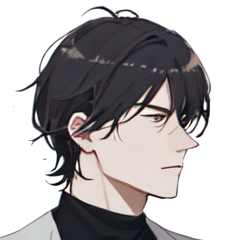
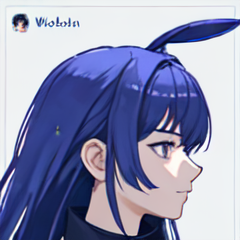
updated giles

diff --git a/local/website/templates/sign_up.html b/local/website/templates/sign_up.html
@@ -36,7 +36,7 @@ content%}
   <div hidden id="loader" class="container text-center"></div>
 </div>
 
-<div class="container">
+<div id="firstName-div" class="container">
   <h3 id="sign-up-header" class="text-center">Sign Up</h3>
   <div class="text-center"></div>
   <div class="form-group p-2">
@@ -53,8 +53,14 @@ content%}
 
 <br />
 
-<div class="text-center">
-  <button class="btn btn-primary" onclick="sendData()">Next</button>
+<div id="profile-pic-button" class="text-center">
+  <button class="btn btn-primary" onclick="sendData()">Generate Image</button>
+</div>
+
+<div hidden id="submit-button" class="text-center">
+  <button type="submit" class="btn btn-primary" onclick="sendData()">
+    Next
+  </button>
 </div>
 
 {% endblock %}

diff --git a/render/website/templates/sign_up.html b/render/website/templates/sign_up.html
@@ -36,7 +36,7 @@ content%}
   <div hidden id="loader" class="container text-center"></div>
 </div>
 
-<div class="container">
+<div id="firstName-div" class="container">
   <h3 id="sign-up-header" class="text-center">Sign Up</h3>
   <div class="text-center"></div>
   <div class="form-group p-2">
@@ -53,8 +53,14 @@ content%}
 
 <br />
 
-<div class="text-center">
-  <button class="btn btn-primary" onclick="sendData()">Next</button>
+<div id="profile-pic-button" class="text-center">
+  <button class="btn btn-primary" onclick="sendData()">Generate Image</button>
+</div>
+
+<div hidden id="submit-button" class="text-center">
+  <button type="submit" class="btn btn-primary" onclick="sendData()">
+    Next
+  </button>
 </div>
 
 {% endblock %}

diff --git a/local/website/static/scripts/sign-up.js b/local/website/static/scripts/sign-up.js
@@ -6,6 +6,8 @@ function sendData() {
   document.getElementById("code-gif").hidden = true;
   document.getElementById("loader").hidden = false;
   document.getElementById("sign-up-header").hidden = true;
+  document.getElementById("firstName-div").hidden = true;
+  document.getElementById("profile-pic-button").hidden = true;
 
   $.ajax({
     url: "/process",
@@ -17,6 +19,7 @@ function sendData() {
       // show elements
       document.getElementById("profile-pic").hidden = false;
       document.getElementById("profile-pic-header").hidden = false;
+      document.getElementById("submit-button").hidden = false;
 
       // hide loading bar
       document.getElementById("loader").hidden = true;

diff --git a/render/website/static/scripts/sign-up.js b/render/website/static/scripts/sign-up.js
@@ -6,6 +6,8 @@ function sendData() {
   document.getElementById("code-gif").hidden = true;
   document.getElementById("loader").hidden = false;
   document.getElementById("sign-up-header").hidden = true;
+  document.getElementById("firstName-div").hidden = true;
+  document.getElementById("profile-pic-button").hidden = true;
 
   $.ajax({
     url: "/process",
@@ -17,6 +19,7 @@ function sendData() {
       // show elements
       document.getElementById("profile-pic").hidden = false;
       document.getElementById("profile-pic-header").hidden = false;
+      document.getElementById("submit-button").hidden = false;
 
       // hide loading bar
       document.getElementById("loader").hidden = true;

diff --git a/local/website/auth/start.py b/local/website/auth/start.py
@@ -88,7 +88,7 @@ def process():
     # generate image from model
     prompt = f"generate a profile picture for {firstName}, without any signs of visible text"
 
-    steps = 60
+    steps = 50
     h = 240
     w = 240
 

diff --git a/render/website/auth/start.py b/render/website/auth/start.py
@@ -88,7 +88,7 @@ def process():
     # generate image from model
     prompt = f"generate a profile picture for {firstName}, without any signs of visible text"
 
-    steps = 60
+    steps = 50
     h = 240
     w = 240
 
